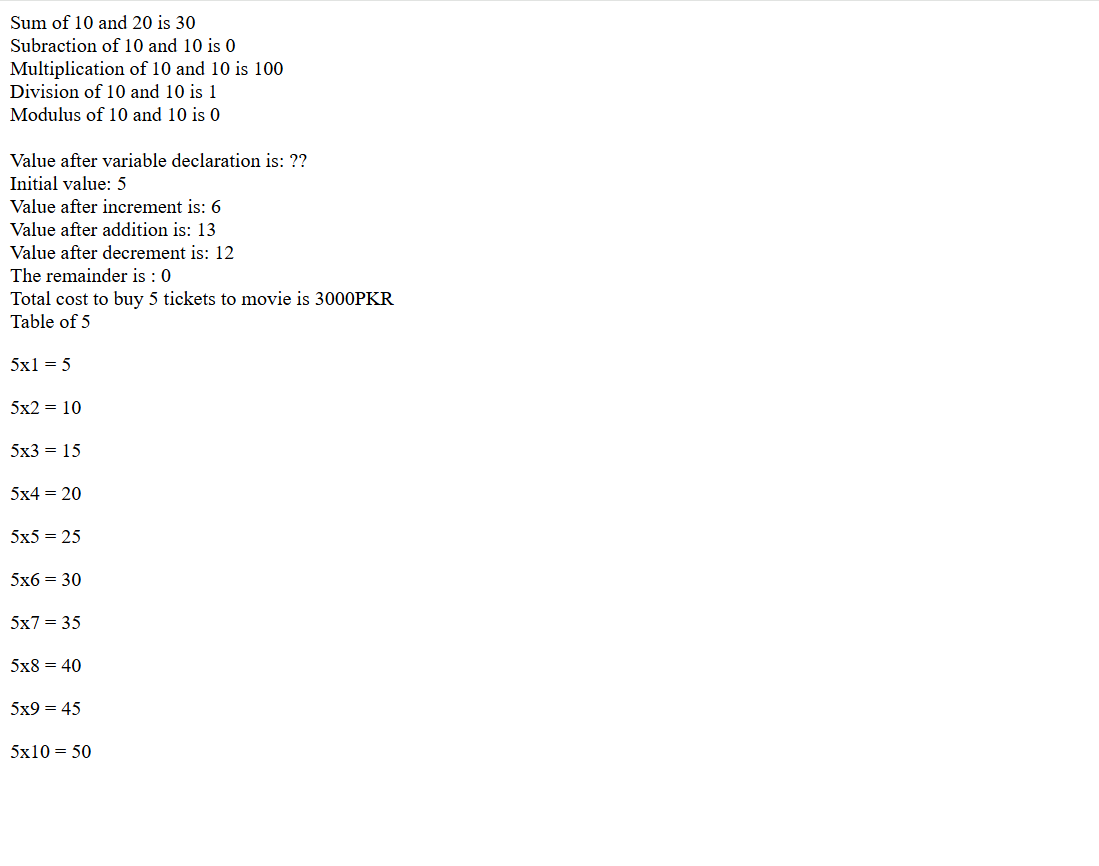
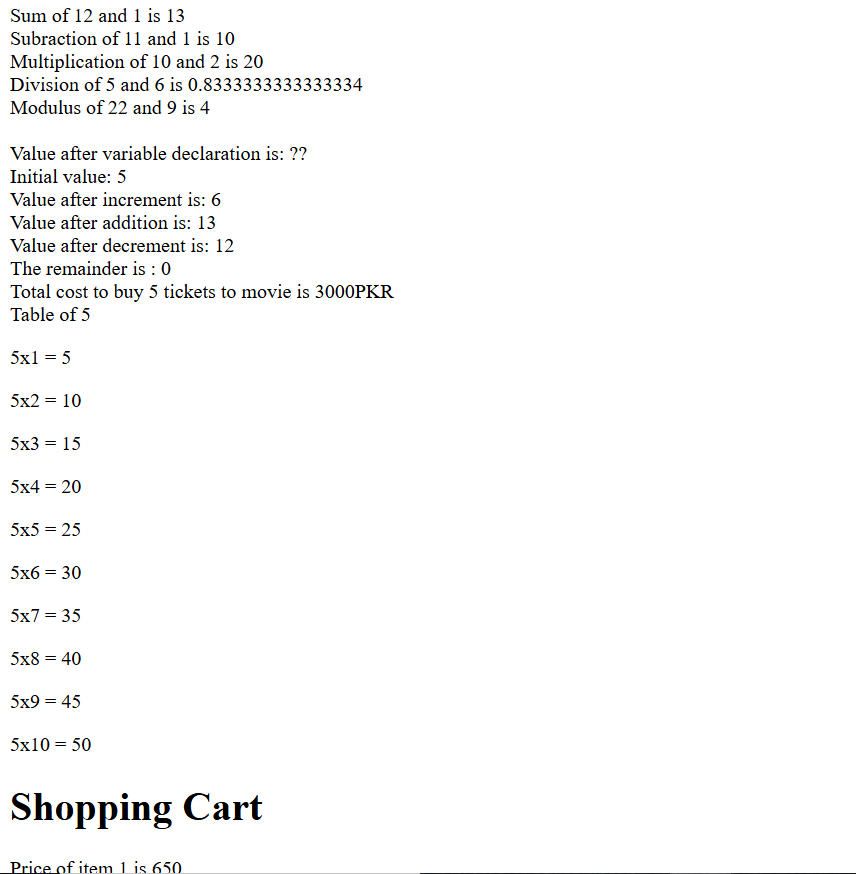
Task 2 Starts

Changed region(s): [[0.0, 0.0, 0.4556, 0.873], [0.0, 0.9042, 1.0, 1.0]]

diff --git a/Module 2/JavaScript/Task 2/app.js b/Module 2/JavaScript/Task 2/app.js
@@ -1,0 +1,15 @@
+let userInput = prompt("Enter your Age");
+userInput = Number(userInput);
+if (userInput < 0) {
+  console.log("Invalid Input");
+} else if (userInput <= 12) {
+  console.log("Child");
+} else if (userInput <= 19) {
+  console.log("Teenager");
+} else if (userInput <= 59) {
+  console.log("Adult");
+} else if (userInput >= 60) {
+  console.log("Senior Citizen");
+} else {
+  console.log("Invalid Input");
+}

diff --git a/Module 2/JavaScript/Task 2/index.html b/Module 2/JavaScript/Task 2/index.html
@@ -1,0 +1,12 @@
+<!DOCTYPE html>
+<html lang="en">
+<head>
+    <meta charset="UTF-8">
+    <meta name="viewport" content="width=device-width, initial-scale=1.0">
+    <title>Task 2</title>
+    <link rel="shortcut icon" href="Favicon.png" type="image/x-icon">
+</head>
+<body>
+    <script src="app.js"></script>
+</body>
+</html>
